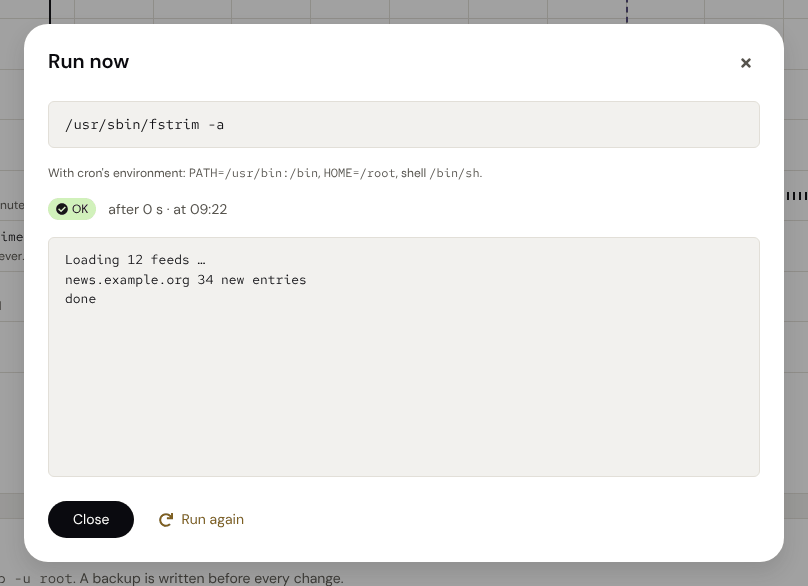
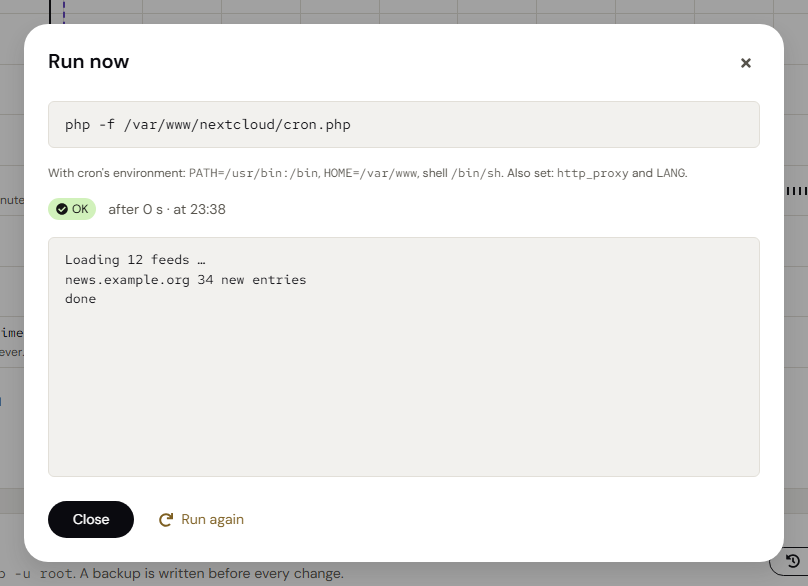
Prepare the release with other users' crontabs (#32)
Prepares 2.4.0: stage 3 of the roadmap, other users' crontabs with
administrative access (#27 editing and backups, #28 run now, #29
recording, #31 conversion), and cron's real environment for run now and
conversions (#30).

- `const VERSION` in `src/app.js` raised to 2.4.0.
- `CHANGELOG.md`: section 2.4.0 – 2026-10-14 (the release notes come
from it).
- `ROADMAP.md`: stage 3 done; its question ("should other users'
crontabs become editable at all?") taken off the open decisions, as
decided: editable, only with administrative access.
- `README.md`: installs 2.4.0; the pictures of run now and of the
conversion now show a job of www-data (the environment line,
`User=www-data`, the header naming the crontab, the full environment
with `UnsetEnvironment=USER`). Taken locally from the mock with
Cockpit's fonts.

After merging: Actions › release › Run workflow on `main`.

diff --git a/src/app.js b/src/app.js
@@ -39,7 +39,7 @@ import { submitBack, submitConvert, toggleUnits, updateConvert } from "./app/con
 import { openBackups } from "./app/backups.js";
 import { initTabs } from "./app/tabs.js";
 
-const VERSION = "2.3.0";
+const VERSION = "2.4.0";
 
 /* ---------- start ---------- */
 

diff --git a/CHANGELOG.md b/CHANGELOG.md
@@ -1,5 +1,35 @@
 # Changelog
 
+## 2.4.0 – 2026-10-14
+
+Crontabs of other users, with administrative access: changed, run, recorded and converted with the same
+safety as root's. Run now and conversions now give a job the environment cron gives it.
+
+- **Crontabs of other users:** with administrative access, every other user's crontab gets a card of its
+  own on the overview and is changed the same way as root's: through `crontab -u USER` in one locked
+  step, after a backup of its own (the last ten in `/var/lib/cockpit-cronjobs/backups/users/USER/`),
+  which can be compared and restored like root's. Without administrative access they are not shown at
+  all. `/etc/crontab` and `/etc/cron.d` stay read-only.
+- **Run now as that user:** another user's job runs as that user (through `runuser`), in the user's
+  home, with cron's environment for that user.
+- **Recording for other users:** the run recorder (version 2; the page installs it again) records a job
+  of another user as that user, in `/var/lib/cockpit-cronjobs/users/USER/runs/`, a directory that
+  belongs to the user; `/var/lib/cockpit-cronjobs` and its `users` directory become mode 711. Cron Jobs
+  reads output and removes runs there as that user, and lists only what has the form of runs.
+- **Conversion for other users:** the timer runs the job with `User=USER`, in the user's home. Units
+  name the crontab they come from, and back to cron removes only units converted from the crontab whose
+  note it follows, so a note a user writes into their own crontab cannot reach anyone else's timer. The
+  systemd timers tab names the crontab a timer came from.
+- **Cron's environment:** run now and conversions read from the server how cron builds a job's
+  environment (PAM's variables from `/etc/environment` and, on Debian and Ubuntu, the locale; the
+  crontab's variables; cron's own) and use exactly that. On Ubuntu, which starts cron with `-P`, `PATH`
+  now comes from `/etc/environment` as under cron, and `USER` is no longer set where cron sets none. A
+  converted unit lists the variables and unsets what systemd would add on its own. The run dialog names
+  the other variables it sets.
+- Tests: the end-to-end test covers a second user for editing, backups, run now, recording and
+  conversion, compares the whole environment of a job under cron with run now and with a converted
+  unit, and tries a link in a user's run directory and a forged conversion note.
+
 ## 2.3.0 – 2026-10-13
 
 Backups you can use: compare any of the last ten versions of the root crontab with the current one, and

diff --git a/ROADMAP.md b/ROADMAP.md
@@ -1,6 +1,6 @@
 # Roadmap
 
-As of 2026-10-13. Each stage is cut so that it is useful on its own and brings its own tests. The
+As of 2026-10-14. Each stage is cut so that it is useful on its own and brings its own tests. The
 order is the recommendation; stages after 1.1 are proposals until they are decided.
 
 **Guardrails for every stage** (they keep applying):
@@ -60,10 +60,14 @@ it would change; the end-to-end test compares the difference with `diff` and res
 
 ---
 
-## Stage 3 – Crontabs of other users
+## Stage 3 – Crontabs of other users ✅
 
-**Goal:** the crontabs of other users can be changed with the same safety as root's (today they are
-read-only).
+Done in 2.4.0 (see [CHANGELOG](CHANGELOG.md)), only with administrative access (without it they are not
+shown at all); the end-to-end test covers a second user for editing, backups, run now, recording and
+conversion. Run now and conversions use the environment cron gives a job on the server.
+
+**Goal:** the crontabs of other users can be changed with the same safety as root's (they were
+read-only before).
 
 - `crontab -u USER` in the same locked step, backups per user, user names checked against the system.
 - Recording and run now as that user; conversion with `User=` in the service unit.
@@ -116,6 +120,5 @@ minute of the run.
 
 ## Open decisions
 
-1. Stage 3: should other users' crontabs become editable at all, or stay read-only?
-2. Stage 4: is a summary inside Cockpit enough, or should failures also notify someone (mail, ntfy, …)?
+1. Stage 4: is a summary inside Cockpit enough, or should failures also notify someone (mail, ntfy, …)?
 3. Stage 5: packages and the listing in Cockpit's Applications page: worth the upkeep?

diff --git a/README.md b/README.md
@@ -63,11 +63,11 @@ the system crontabs and timers, and nothing of other users' crontabs.
 From a [release](https://github.com/Azentrius/cockpit-cronjobs/releases) (replace the version):
 
 ```sh
-curl -LO https://github.com/Azentrius/cockpit-cronjobs/releases/download/v2.3.0/cockpit-cronjobs-2.3.0.tar.gz
-curl -LO https://github.com/Azentrius/cockpit-cronjobs/releases/download/v2.3.0/SHA256SUMS
+curl -LO https://github.com/Azentrius/cockpit-cronjobs/releases/download/v2.4.0/cockpit-cronjobs-2.4.0.tar.gz
+curl -LO https://github.com/Azentrius/cockpit-cronjobs/releases/download/v2.4.0/SHA256SUMS
 sha256sum --ignore-missing -c SHA256SUMS
-gh attestation verify cockpit-cronjobs-2.3.0.tar.gz --repo Azentrius/cockpit-cronjobs   # optional, needs gh
-sudo tar -xzf cockpit-cronjobs-2.3.0.tar.gz -C /usr/share/cockpit
+gh attestation verify cockpit-cronjobs-2.4.0.tar.gz --repo Azentrius/cockpit-cronjobs   # optional, needs gh
+sudo tar -xzf cockpit-cronjobs-2.4.0.tar.gz -C /usr/share/cockpit
 ```
 
 Or from the source:
